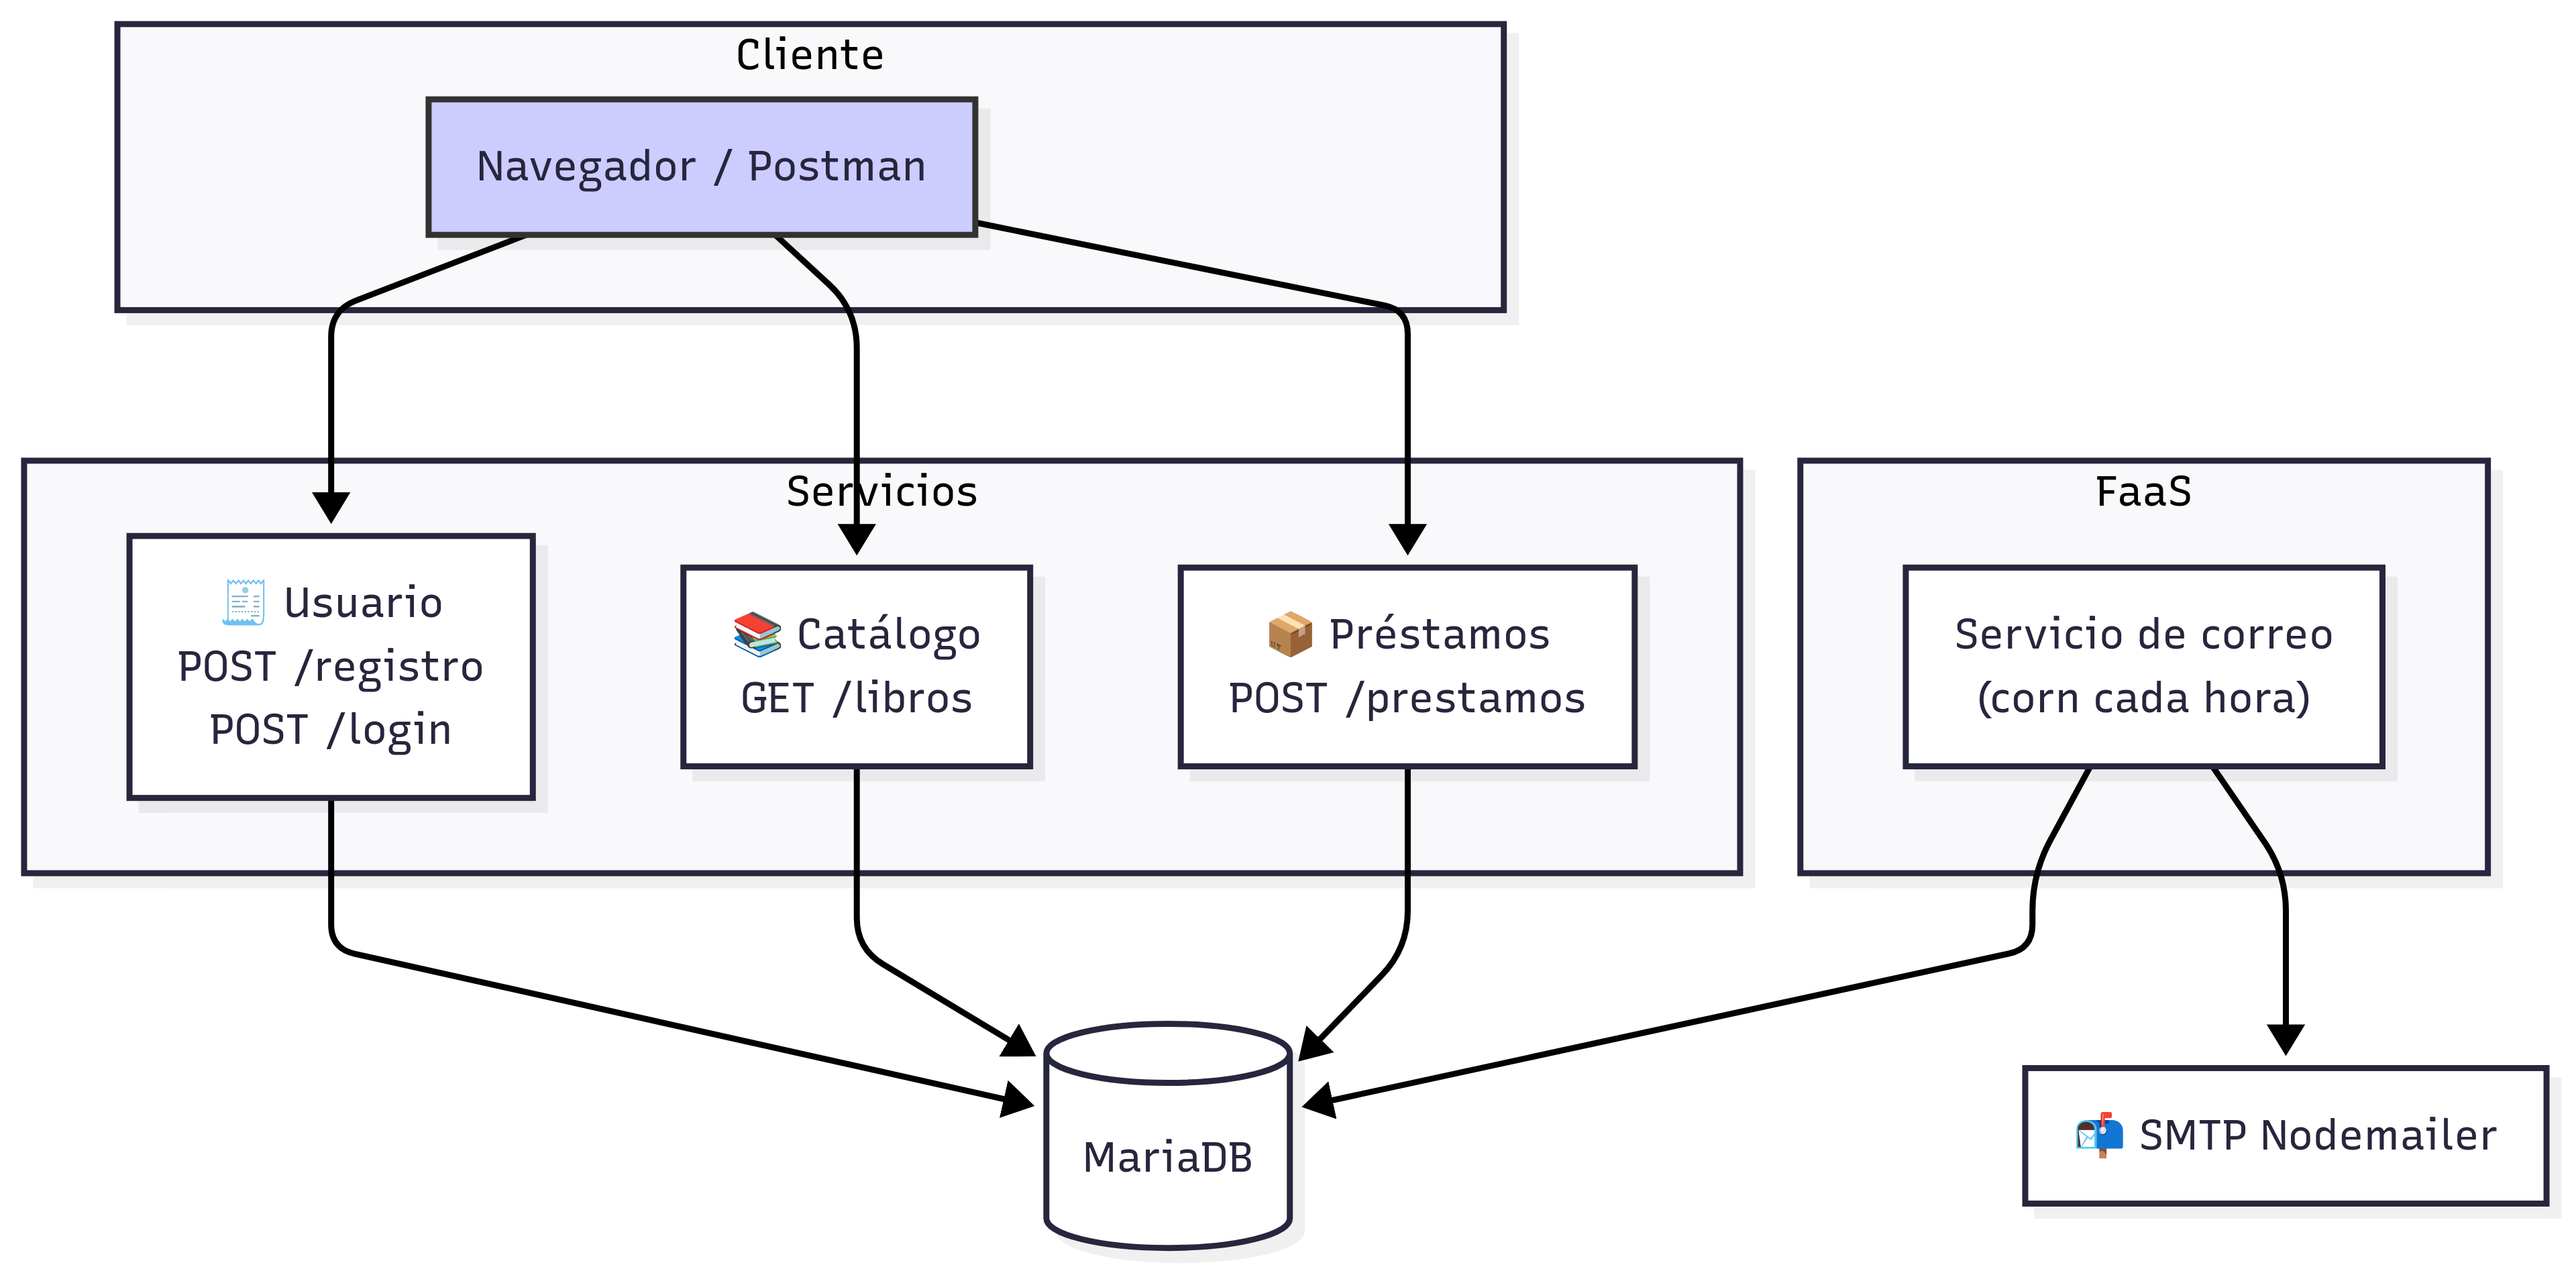
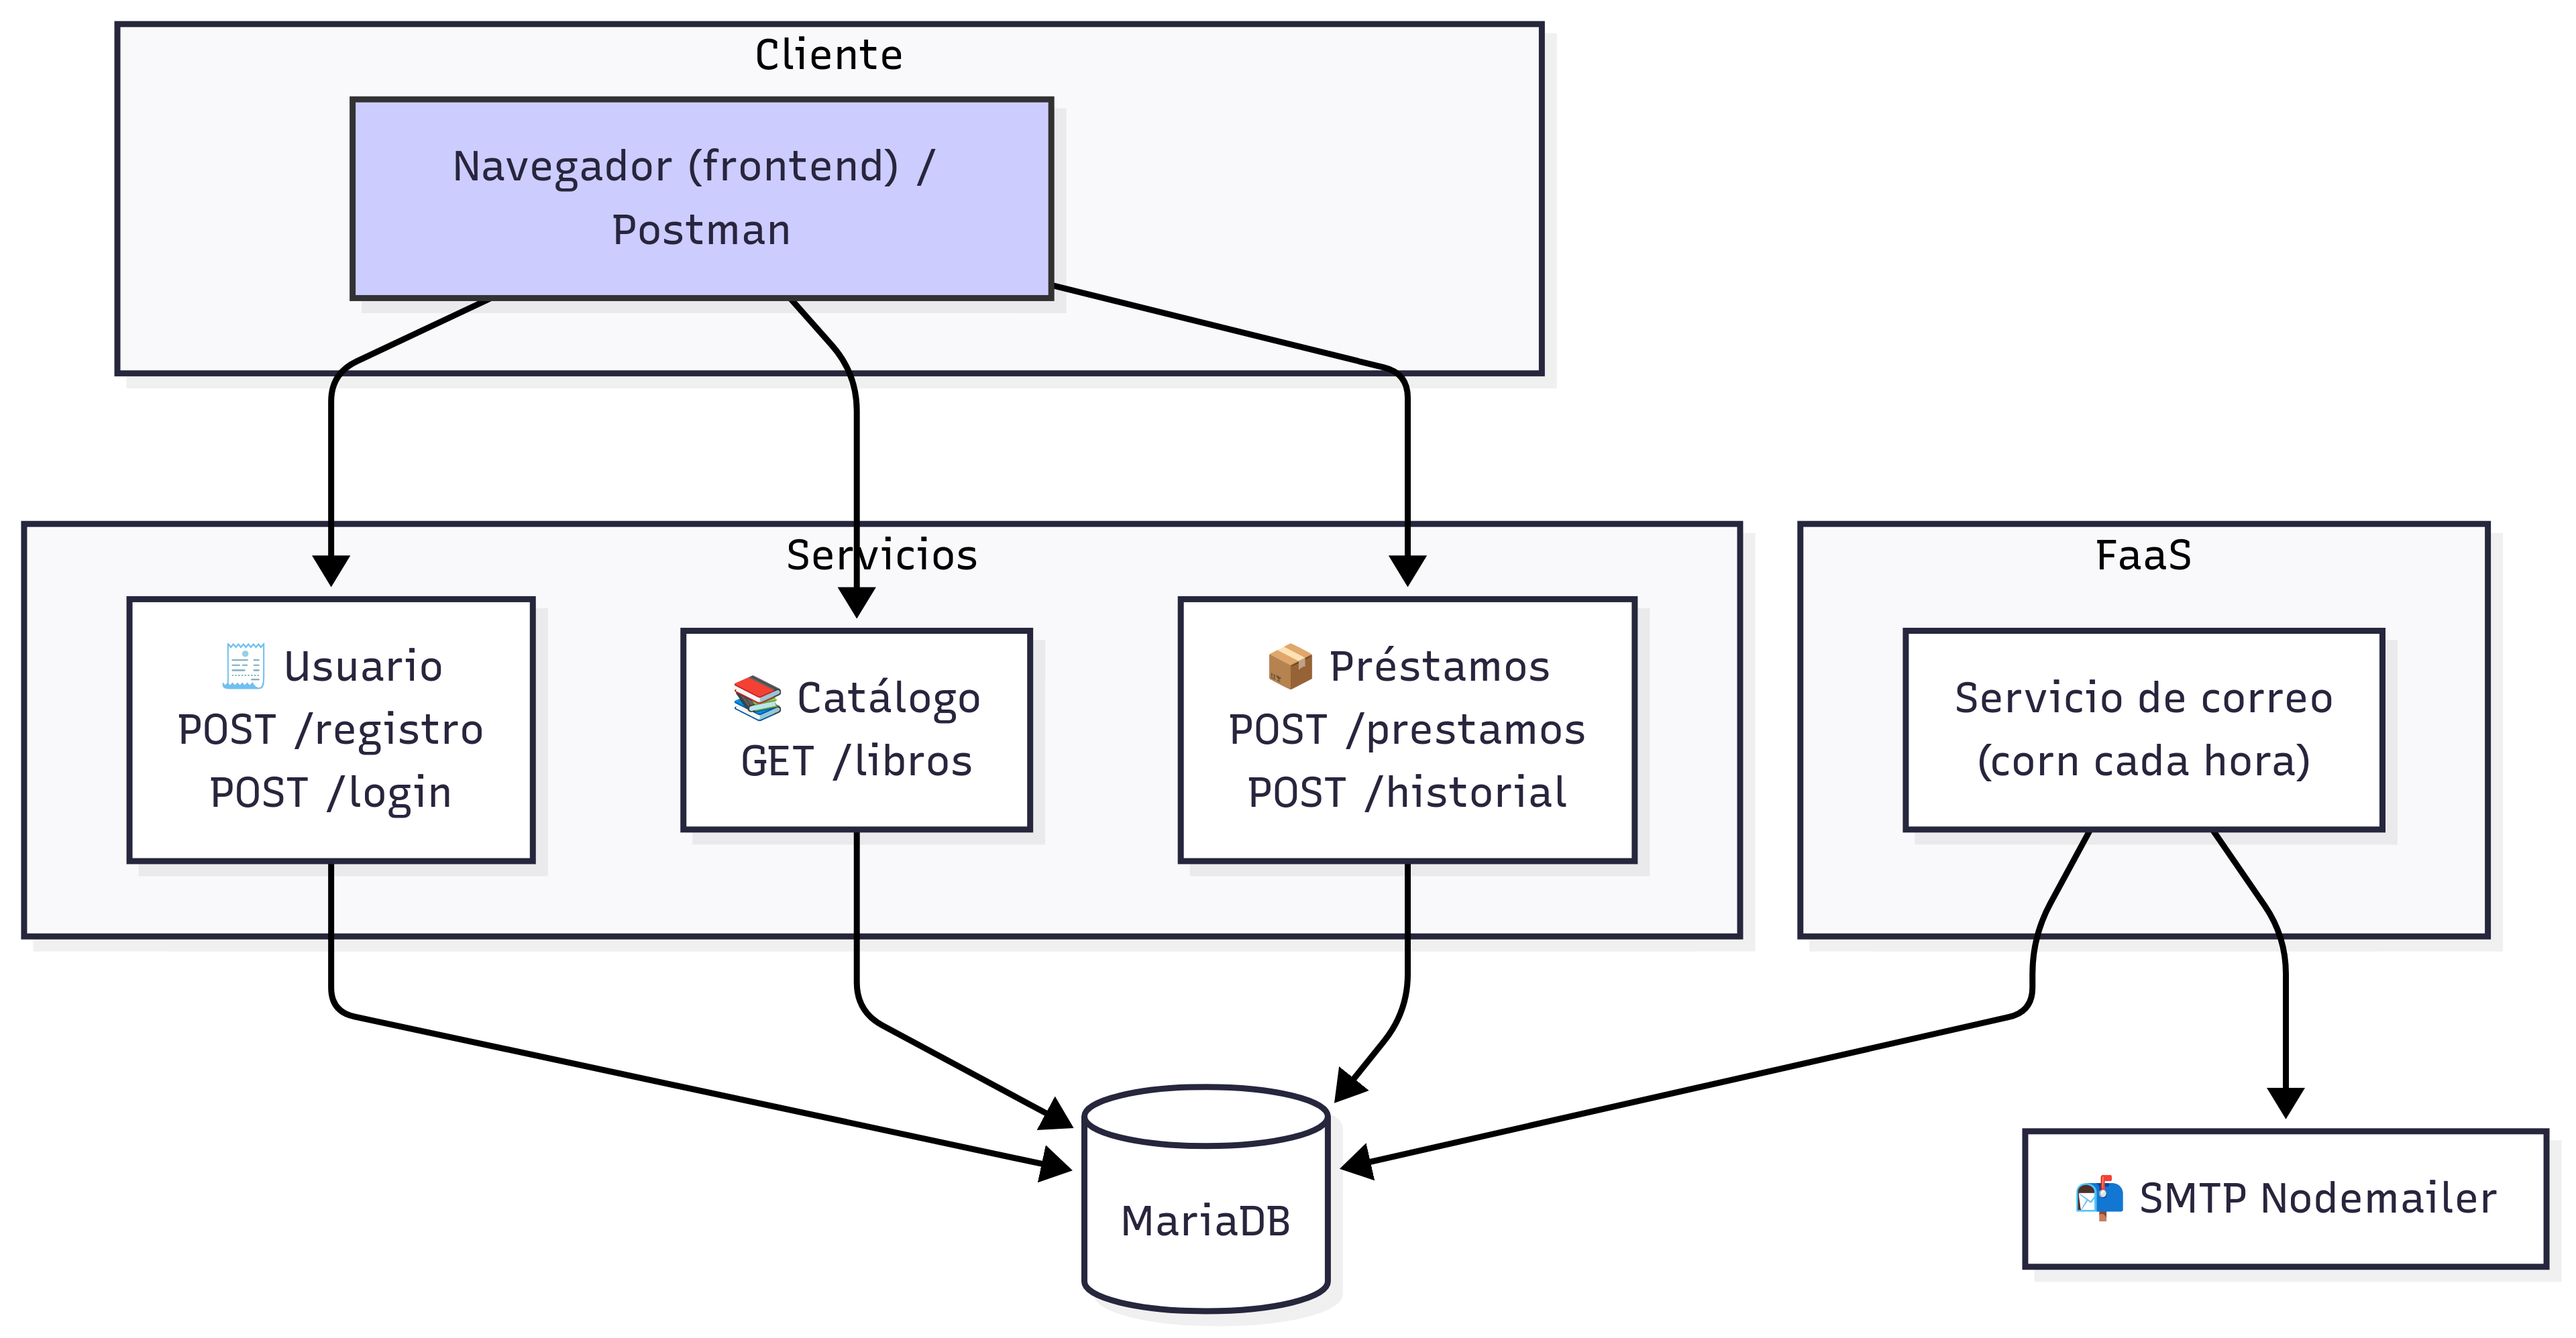
implementacion terminado (#16)

diff --git a/MkDocs/biblioteca-docs/docs/stylesheets/extra.css b/MkDocs/biblioteca-docs/docs/stylesheets/extra.css
@@ -1,0 +1,31 @@
+/* Redondear tarjetas y cajas */
+.md-typeset .admonition, .md-typeset details {
+  border-radius: 10px;
+  box-shadow: 0 2px 4px rgba(0,0,0,0.1);
+}
+
+.md-typeset h1{
+    color: #000000;
+}
+/* Mejorar contraste de código */
+code, pre {
+  background-color: #f5f5f5 !important;
+  color: #000 !important;
+}
+
+/* Cambiar color de títulos */
+h1, h2, h3 {
+  color: #393939;
+}
+
+/* Quitar tanta caja cuadrada */
+.md-content {
+  border-radius: 10px;
+  background: #fff;
+  padding: 1rem;
+}
+
+/* Fondo más suave para el dark mode */
+[data-md-color-scheme="slate"] {
+  --md-default-bg-color: #202124;
+}

diff --git a/MkDocs/biblioteca-docs/docs/despliegue/docker-compose.md b/MkDocs/biblioteca-docs/docs/despliegue/docker-compose.md
@@ -1,0 +1,72 @@
+# 🐳 Despliegue con Docker Compose
+
+El archivo **docker-compose.yml**,  define y ejecuta todos los servicios del proyecto Biblioteca digital, usando contenedores Docker. Con la orden (`docker-compose up`) se levantan:
+
+- Base de datos
+- 3 microservicios: catálogo, usuario y préstamo
+- Una función FaaS
+- Una interfaz de usuario
+
+---
+
+## 📂 Estructura de Servicios
+
+
+### 🔸 Base de datos - `db`
+Contenedor con MariaDB 10.11. Al iniciar, ejecuta un script que contiene la definición de la base de datos y las tablas.
+```
+image: mariadb:10.11
+environment:
+  MYSQL_ROOT_PASSWORD: root
+  MYSQL_DATABASE: biblioteca
+volumes:
+  - ./sql/init.sql:/docker-entrypoint-initdb.d/init.sql:ro
+
+```
+---
+### 📚 Catálogo – `catalogo`
+Microservicio que utiliza Node.js 22 en el puerto 3000 y utiliza las variables de entorno para realizar la conexión con la base de datos. Contiene la API para el catálogo de libros.
+
+---
+### 👤 Usuario  – `usuario`
+Microservicio que utiliza Node.js 22 en el puerto 3001 y utiliza las variables de entorno para realizar la conexión con la base de datos.
+Contiene las APIs para el inicio y registro de usuarios.
+
+---
+### 📄 Prestamo  – `prestamo`
+Microservicio que utiliza Node.js 22 en el puerto 3002 y utiliza las variables de entorno para realizar la conexión con la base de datos.
+Contiene las APIs para registrar prestamos y obtener el historia de pedidos.
+
+--- 
+### 🌐 Frontend – `frontend`
+Interfaz web de la biblioteca digital, que utiliza y expone el servicio en el puerto 4000. Utiliza Node.js en su versión 22 sirviendo archivos estáticos unicamente.
+
+---
+### 🔔 Función FaaS – `faas`
+Función que envía correos cada hora cuando un préstamos está por vencer.
+
+- Trigger: programado (cron)
+- Lenguaje: Node.js 22
+- Usa un archivo .env para las credenciales de correo.
+---
+## ▶ Levantar el proyecto
+Hay que ejecutar desde la raíz del proyecto el comando `docker-compose up --build`
+
+De ese modo:
+
+- Compila todos los servicios
+
+- Crea el volumen db_data para persistencia
+
+- Corre todo en localhost
+
+---
+## 💾 Volúmenes
+Se usa para mantener persistencia de datos en la DB, incluso luego de reinicios.
+```
+volumes:
+  db_data:
+```
+---
+## 📷 Capturas del sistema
+Puedes ver más en [Capturas](../capturas.md)

diff --git a/MkDocs/biblioteca-docs/docs/capturas.md b/MkDocs/biblioteca-docs/docs/capturas.md
@@ -1,0 +1,59 @@
+# 📷 Capturas del Sistema
+
+A continuación, se muestra una secuencia visual del funcionamiento de la Biblioteca Digital, desde el registro hasta la recepción del correo recordatorio.
+
+---
+
+## 1⃣ Registro de usuario 
+
+El usuario se registra enviando un `POST` a `/registro` de forma manual, ya que aún no se ha implementado la interfaz web para el formulario de registro de usuario.
+
+![Registro de usuario](assets/probando_registro_usuario.png)
+
+---
+
+## 2⃣ Inicio de sesión
+
+Se realiza un login exitoso con el usuario registrado anteriormente.
+
+![Login de usuario](assets/probando_login_usuario.png)
+
+---
+
+## 3⃣ Visualización del catálogo
+
+Una vez autenticado, el usuario accede al catálogo de libros disponibles.
+
+![Catálogo de libros](assets/catalogo_libros.png)
+
+---
+
+## 4⃣ Préstamo de libro
+
+Se realiza una solicitud de préstamo para uno de los libros del catálogo.
+
+![Préstamo de libro](assets/prestamo_libro.png)
+
+---
+
+## 5⃣ Historial de libros prestados
+
+El sistema muestra el historial de préstamos registrados por el usuario.
+
+![Historial de libros prestados](assets/historial_libros_prestados.png)
+
+---
+
+## 6⃣ Ejecución de la función FaaS
+
+Se ejecuta manualmente la función FaaS (`SendDueReminderFn`), que revisa los préstamos y prepara el envío de recordatorios.
+
+![Ejecución de la función FaaS](assets/ejecucion_faas.png)
+
+---
+
+## 7⃣ Correo de recordatorio
+
+Finalmente, el usuario recibe un correo con la notificación de que un préstamo está próximo a vencer.
+
+![Correo de recordatorio](assets/correo_demostrativo.png)

diff --git a/MkDocs/biblioteca-docs/docs/despliegue/mkdocs.md b/MkDocs/biblioteca-docs/docs/despliegue/mkdocs.md
@@ -1,0 +1,33 @@
+# 📘 Documentación con MkDocs
+
+Este proyecto usa **MkDocs** y el tema **Material** para generar una documentación clara y profesional.
+
+---
+
+## 🏗 Estructura del Proyecto
+
+La documentación está en la carpeta `docs/` y organizada por secciones:
+
+- `configuracion/`: Base de datos y tecnologías usadas
+- `despliegue/`: Guías para levantar el sistema y la documentación
+- `implementacion/`: Detalles de los microservicios, frontend y función FaaS
+- `assets/`: Diagramas e imágenes de apoyo
+
+---
+
+## ⚙ Comandos Básicos
+
+### ▶ Levantar la documentación localmente
+
+```
+mkdocs serve
+```
+Abre el sitio en http://localhost:8000
+
+---
+### 🏗 Generar sitio estático
+Crea una carpeta site/ con los archivos HTML listos para desplegar.
+
+```
+mkdocs build
+```

diff --git a/MkDocs/biblioteca-docs/docs/implementacion/prestamo.md b/MkDocs/biblioteca-docs/docs/implementacion/prestamo.md
@@ -37,6 +37,7 @@ Registra un nuevo préstamo de un libro a un usuario.
   "fecha_devolucion": "2025-07-17"
 }
 ```
+
 ### Consultar Historial de Préstamos
 
 **POST** `/historial`

diff --git a/MkDocs/biblioteca-docs/docs/index.md b/MkDocs/biblioteca-docs/docs/index.md
@@ -19,5 +19,6 @@ Bienvenido a la documentación técnica del proyecto **Biblioteca Digital**, des
 
 ## 🚀 ¿Cómo levantar el proyecto?
 
-
+```
 docker-compose up --build
+```
